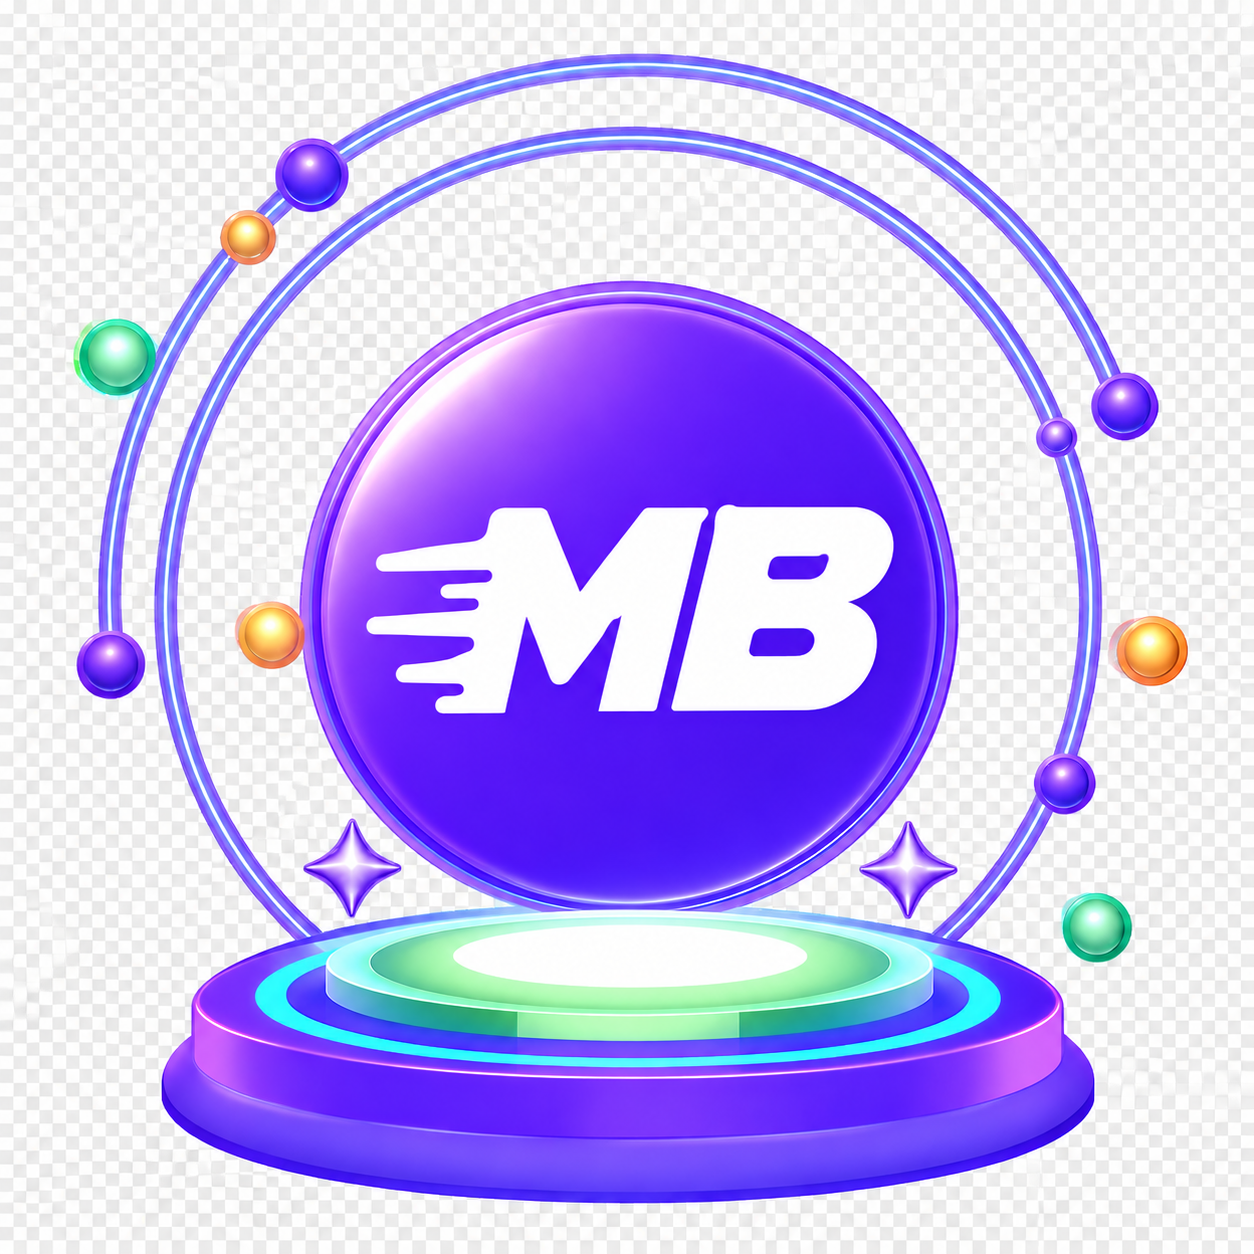
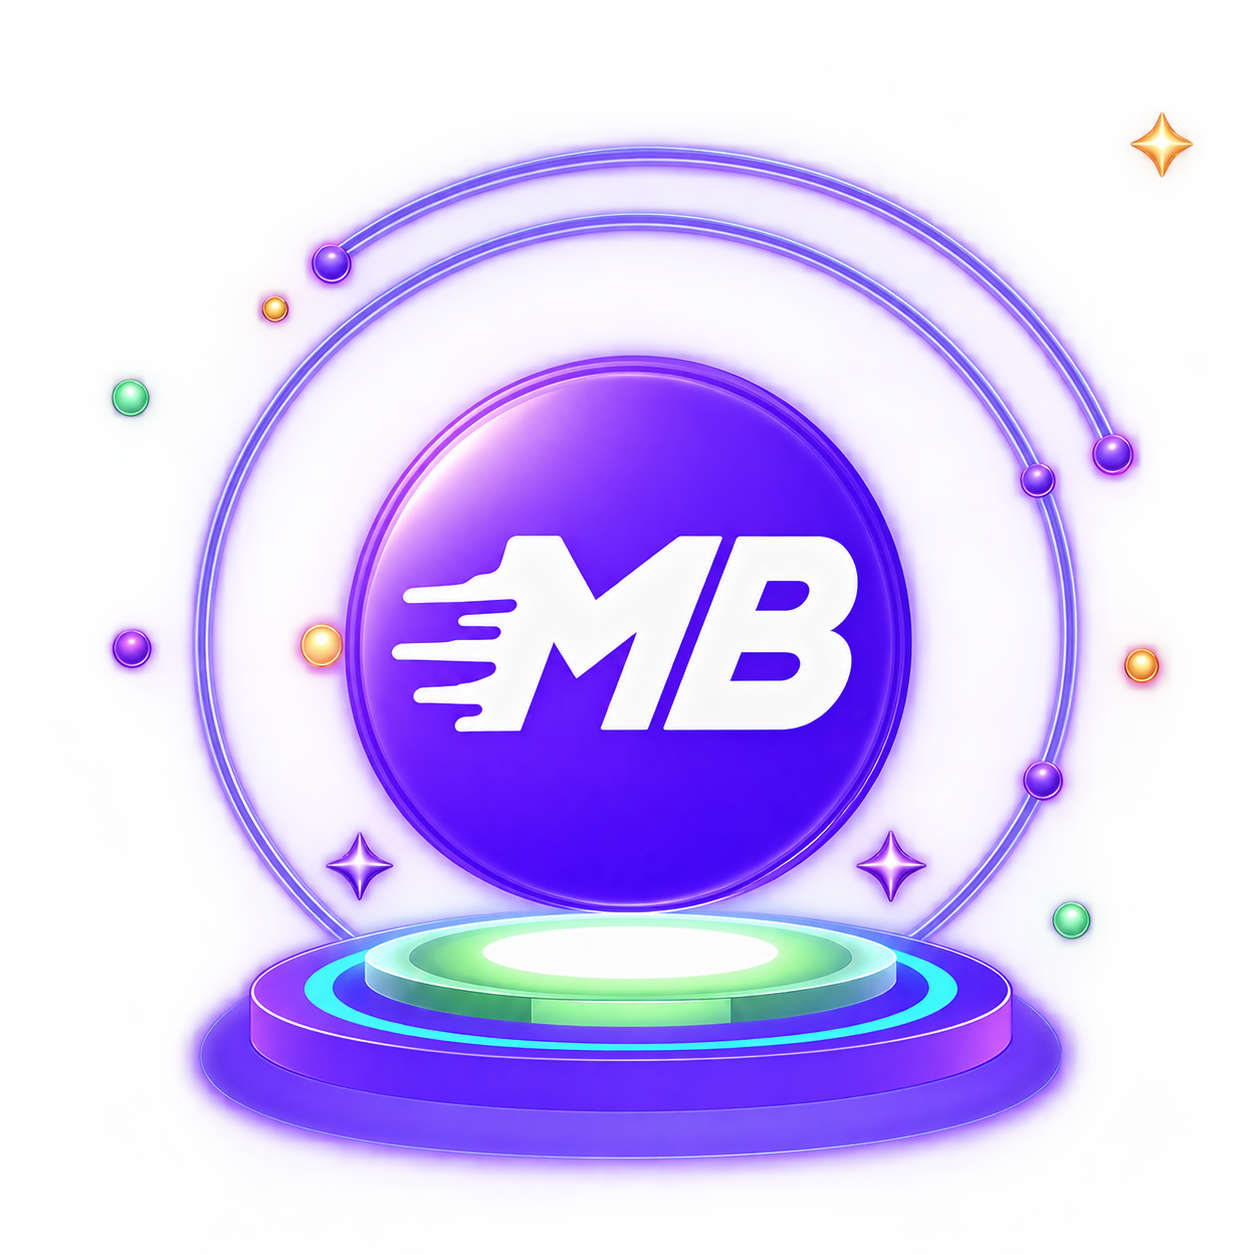
feat: Update MoneyBro lender details and add ring image support

diff --git a/src/lib/constants.ts b/src/lib/constants.ts
@@ -250,10 +250,10 @@ export const STATIC_LENDER_DETAILS: Record<
   //   interestRate: "Interest Rates start at 0.5% to 1% per day",
   // },
    MoneyBro: {
-    headline: "Get up to ₹75,000 with quick approval!",
-    description: "Personal loans with fast disbursement and tenure up to 12 months",
-    keyFeature: "Quick Approval and Flexible Repayment Options",  
-    interestRate: "Interest Rates start at 1%* per month",
+    headline: "Get up to ₹30,000 with quick approval!",
+    description: "Personal loans with Fast & Fully Digital Process.",
+    keyFeature: "Clear and upfront disclosures, loan tenure up to 45 days",  
+    interestRate: "Fast approvals, flexible terms, and zero hassle.",
   },
   Apollo: {
     headline: "Get up to ₹50,000 with quick approval!",
@@ -364,7 +364,7 @@ export const UTM_TO_LENDER: Record<string, string> = {
   moneydot: "MoneyDot",
   truefund: "TrueFund",
   cashmysalary: "CashMySalary",
-  MoneyBro: "MoneyBro",
+  moneybro: "MoneyBro",
   apollo: "Apollo",
   rupinow: "RupiNow",
   cash2you: "Cash2You",
@@ -485,7 +485,7 @@ export const UTM_MEDIUM_LENDERS_FEATURES: Record<string, [LenderFeature, LenderF
   MoneyBro: [
     { title: "Quick Approval", description: "Fast processing" },
     { title: "Flexible Repayment", description: "Easy repayment options" },
-    { title: "Up to ₹75,000", description: "High loan amount" },
+    { title: "Up to ₹30,000", description: "High loan amount" },
   ],
   Apollo: [
     { title: "Quick Approval", description: "Fast processing" },
@@ -568,7 +568,7 @@ export const LENDER_FEATURE_BADGES: Record<string, [string, string, string]> = {
   TrueFund: ["Quick Approval", "Up to ₹10 Lakh", "Flexible Repayment"],
   RupiNow: ["Zero Hidden Charges", "Flexible Tenure", "Up to ₹50,000"],
   // ASAPFinance: ["Fast Approval", "No Collateral", "Hassle-Free Docs"],
-  MoneyBro: ["Quick Approval", "Flexible Repayment", "Up to ₹75,000"],
+  MoneyBro: ["Quick Approval", "Flexible Repayment", "Up to ₹30,000"],
   Apollo: ["Fully Digital Loan", "Quick Approval", "Up to 6 months tenure"],
   Cash2You: ["Up to 60 Months Tenure", "Flexible EMI", "Up to ₹40,000"],
   RocketCash: ["Quick Approval", "Up to 21 Days", "Up to ₹20,000"],
@@ -600,7 +600,7 @@ export const LENDER_MAX_AMOUNT: Record<string, number> = {
   MoneyDot: 100000,      // ₹1 Lakhs
   RupiNow: 50000,      // ₹50,000
   // ASAPFinance: 12000,      // ₹12,000
-  MoneyBro: 75000,      // ₹75,000
+  MoneyBro: 30000,      // ₹30,000
   Apollo: 50000,      // 50,000
   Cash2You: 40000,      // ₹40,000
   RocketCash: 20000,      // ₹20,000

diff --git a/src/components/dashboard/RingImageSection.tsx b/src/components/dashboard/RingImageSection.tsx
@@ -19,6 +19,7 @@ const LENDER_RING_IMAGES: Record<string, string> = {
   cashmysalary: "/CS-ring.png",
   dhanpocket: "/DP-ring.png",
   kamakshimoney: "/KM-ring.png",
+  moneybro: "/MB-ring.png",
 };
 
 // Default fallback image (used if lender not found in mapping)
